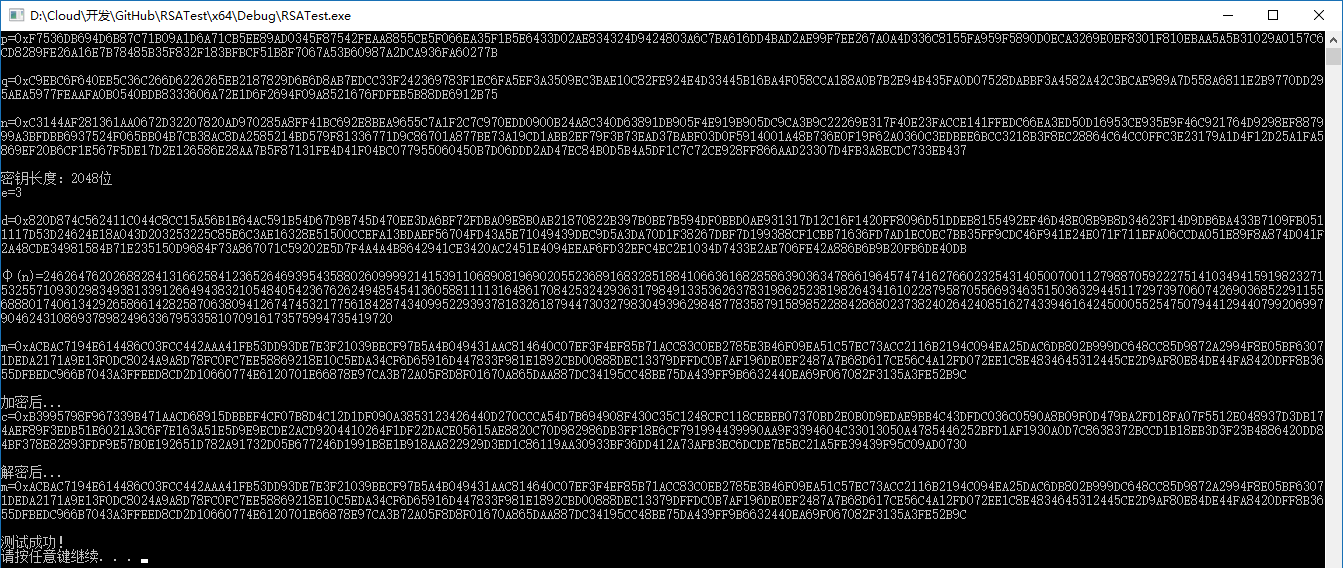
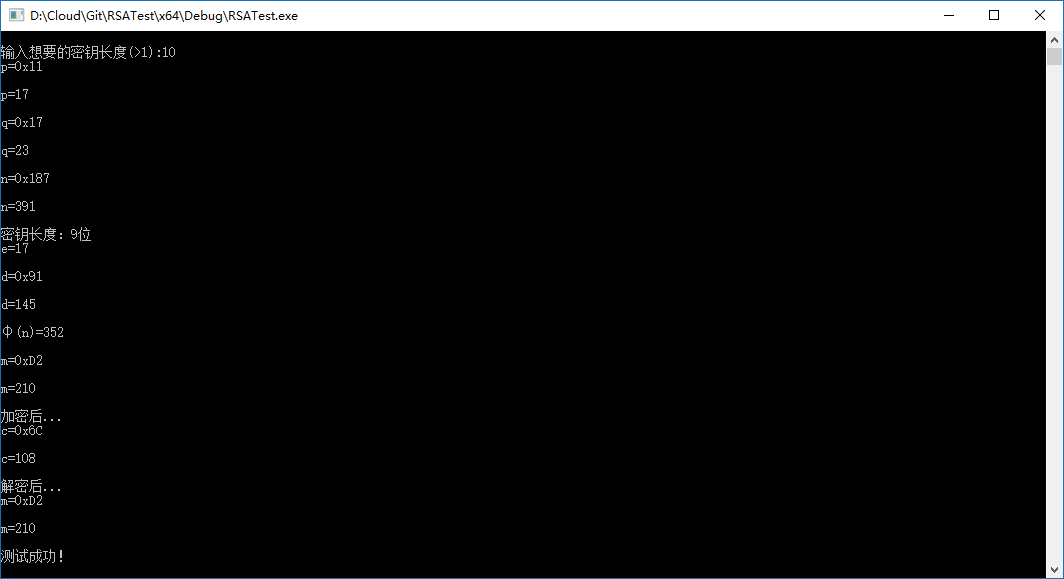
可以根据输入自定义密钥长度;同时输出10进制和16进制

Changed region(s): [[0.0, 0.0, 1.0, 1.0]]

diff --git a/RSATest/源.cpp b/RSATest/源.cpp
@@ -4,54 +4,70 @@
 #include <random>
 
 using namespace std;
-
+void output_starter()
+{
+	cout << "\n输入想要的密钥长度(>1):";
+}
 int main(int argc, string  argv[])
 {
-	_wsetlocale(LC_ALL, L"");
+	//_wsetlocale(LC_ALL, L"");
+	unsigned int length;
+	output_starter();
+	while(cin>>length)
+	{
+		RSA_Test test1;
+		test1(length);
+		gmp_printf("p=0x%ZX\n\n", test1.p);
+		gmp_printf("p=%Zd\n\n", test1.p);
+		gmp_printf("q=0x%ZX\n\n", test1.q);
+		gmp_printf("q=%Zd\n\n", test1.q);
+		gmp_printf("n=0x%ZX\n\n", test1.n);
+		gmp_printf("n=%Zd\n\n", test1.n);
+		cout << "密钥长度：" << mpz_sizeinbase(test1.n, 2) << "位" << endl;
+		gmp_printf("e=%Zd\n\n", test1.e);
+		gmp_printf("d=0x%ZX\n\n", test1.d);
+		gmp_printf("d=%Zd\n\n", test1.d);
+		gmp_printf("φ(n)=0x%ZX\n\n", test1.z);
+		gmp_printf("φ(n)=%Zd\n\n", test1.z);
 
-	RSA_Test Test1;
-	Test1(2048);
-	gmp_printf("p=0x%ZX\n\n", Test1.p);
-	gmp_printf("q=0x%ZX\n\n", Test1.q);
-	gmp_printf("n=0x%ZX\n\n",Test1.n);
-	cout <<"密钥长度："<<mpz_sizeinbase(Test1.n, 2) <<"位"<< endl;
-	gmp_printf("e=%Zd\n\n", Test1.e);
-	gmp_printf("d=0x%ZX\n\n", Test1.d);
-	gmp_printf("φ(n)=%Zd\n\n", Test1.z);
+		mpz_t m, c, _m;
+		mpz_init(m);
+		mpz_init(c);
+		mpz_init(_m);
+		//置随机数种子
+		random_device rd;
+		gmp_randstate_t seed_gmp;
+		gmp_randinit_default(seed_gmp);
+		gmp_randseed_ui(seed_gmp, static_cast<unsigned long>(rd()));
+		//随机生成需加密原文m
+		mpz_urandomm(m, seed_gmp, test1.n);//m<n
+		gmp_randclear(seed_gmp);
 
-	mpz_t m,c,_m;
-	mpz_init(m);
-	mpz_init(c);
-	mpz_init(_m);
-	//置随机数种子
-	random_device rd;
-	gmp_randstate_t seed_gmp;
-	gmp_randinit_default(seed_gmp);
-	gmp_randseed_ui(seed_gmp, static_cast<unsigned long>(rd()));
-	//随机生成需加密原文m
-	mpz_urandomm(m, seed_gmp, Test1.n);//m<n
-	gmp_randclear(seed_gmp);
+		gmp_printf("m=0x%ZX\n\n", m);
+		gmp_printf("m=%Zd\n\n", m);
 
-	gmp_printf("m=0x%ZX\n\n", m);
+		cout << "加密后..." << endl;
+		test1.encrypt(c, m);
+		gmp_printf("c=0x%ZX\n\n", c);
+		gmp_printf("c=%Zd\n\n", c);
 
-	cout << "加密后..." << endl;
-	Test1.encrypt(c, m);
-	gmp_printf("c=0x%ZX\n\n", c);
+		cout << "解密后..." << endl;
+		test1.decrypt(_m, c);
+		gmp_printf("m=0x%ZX\n\n", _m);
+		gmp_printf("m=%Zd\n\n", _m);
 
-	cout << "解密后..." << endl;
-	Test1.decrypt(_m, c);
-	gmp_printf("m=0x%ZX\n\n", _m);
+		if (mpz_cmp(m, _m) == 0)
+			cout << "测试成功！" << endl;
+		else
+			cout << "测试失败！" << endl;
 
-	if (mpz_cmp(m, _m) == 0)
-		cout << "测试成功！" << endl;
-	else
-		cout << "测试失败！"  << endl;
-
-	mpz_clear(m);
-	mpz_clear(c);
-	mpz_clear(_m);
-
-	system("pause");
+		mpz_clear(m);
+		mpz_clear(c);
+		mpz_clear(_m);
+		output_starter();
+	}
+	
+	//system("pause");
 	return 0;
 
 }

diff --git a/RSATest/RSA_Test.h b/RSATest/RSA_Test.h
@@ -10,11 +10,11 @@ class RSA_Test
 {
 	using uint = mpz_t;
 public:
-	uint p, q;//prime
-	uint n;//p*q
-	uint e;
-	uint d;
-	uint z;
+	uint p{}, q{};//prime
+	uint n{};//p*q
+	uint e{};
+	uint d{};
+	uint z{};
 
 	RSA_Test();
 	~RSA_Test();

diff --git a/README.md b/README.md
@@ -9,6 +9,8 @@
 # 使用说明
 这只是RSA算法测试，因算法问题生成的位数其实不定，写着2048位可能生成2047位
 
+有几率测试失败
+
 # 例子
 ![](https://raw.githubusercontent.com/HMBSbige/RSATest/master/pic/sample.png)
 # 参考资料
